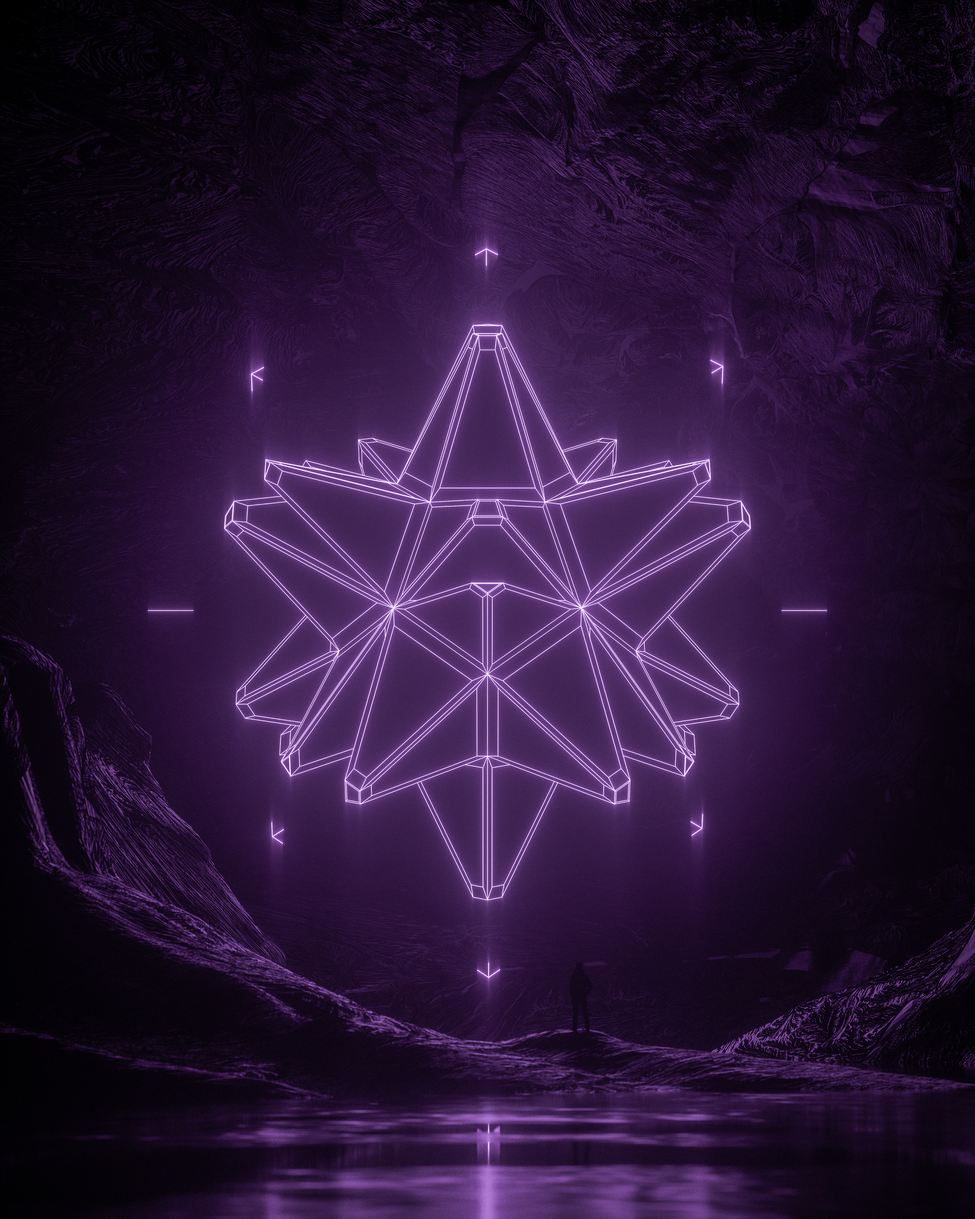
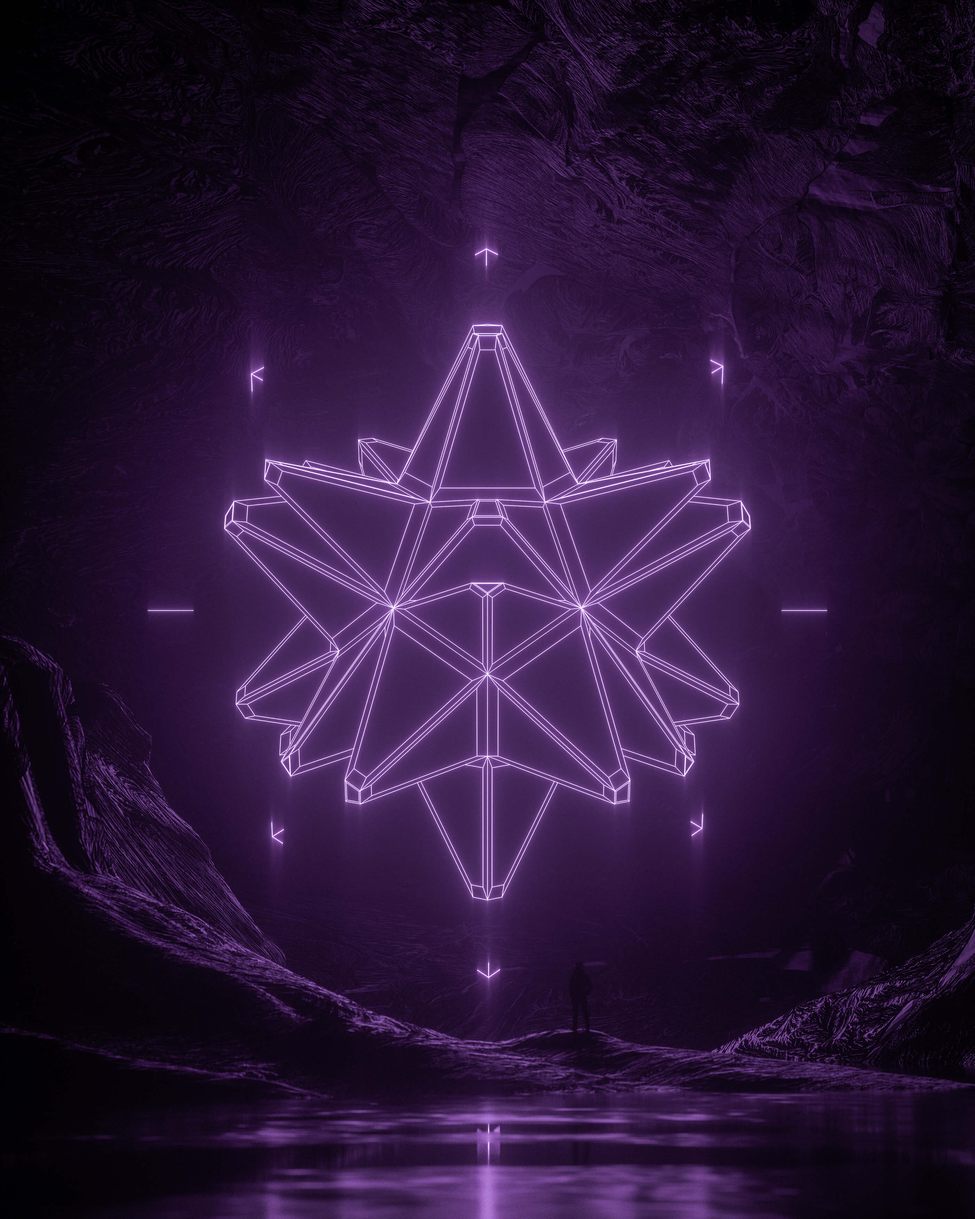
se comprimio las img

diff --git a/pages/contacto.html b/pages/contacto.html
@@ -99,7 +99,7 @@
       <section class="main-section d-flex align-items-center">
         <div class="container-lg">
           <div class="row">
-            <div class="col-md-6 col-lg-5 contactanos">
+            <div class="col-md-6 col-lg-5 contactanos animate__animated animate__fadeInUp">
               <h1 class="pt-3 intro-contacto">Contactanos</h1>
               <div class="contacto-texto">
                 <h2 class="py-3 intro-contacto--text">
@@ -110,7 +110,7 @@
                     <span>support@neonwallet.com</span>
                   </a>
                 </div>
-                <div class="animate__animated animate__backInUp">
+                <div>
                   <a href="https://github.com/nicoarias47" target="_blank">
                     <img
                       src="https://img.icons8.com/color/48/000000/twitter--v1.png"
@@ -148,7 +148,7 @@
               </div>
             </div>
             <div class="col-lg-2 d-none d-lg-block"></div>
-            <div class="col-md-6 col-lg-5">
+            <div class="col-md-6 col-lg-5 animate__animated animate__fadeInUp">
               <label for="floatingInput" class="text-caja">Email</label>
               <div class="form mb-3">
                 <input type="email" class="form-control" id="floatingInput" />

diff --git a/css/style.css b/css/style.css
@@ -330,19 +330,10 @@ main {
   filter: drop-shadow(0px 0px 10px rgba(255, 193, 7, 0.6745098039));
 }
 
-/*MAPS*/
 .tDescargas {
   padding-top: 1rem;
   text-align: center;
   font-weight: bold;
-}
-
-.tDescargas--iphone {
-  color: #1dc0ed;
-}
-
-.tDescargas--android {
-  color: #13b50e;
 }
 
 .box {

diff --git a/scss/_descargas.scss b/scss/_descargas.scss
@@ -60,21 +60,10 @@
   }
 }
 
-/*MAPS*/
-$app: (
-  iphone: #1dc0ed,
-  android: #13b50e,
-);
-
 .tDescargas {
   padding-top: 1rem;
   text-align: center;
   font-weight: bold;
-}
-@each $name, $color in $app {
-  .tDescargas--#{$name} {
-    color: $color;
-  }
 }
 
 .box {
